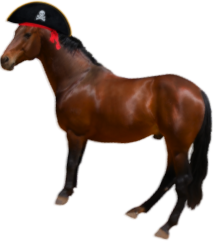
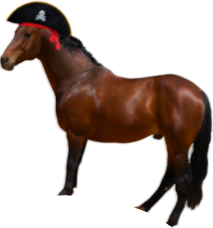
juan.

Changed region(s): [[0.0, 0.0307, 1.0, 1.0], [0.0845, 0.0, 0.1408, 0.0307], [0.2254, 0.0, 0.2535, 0.0307]]

diff --git a/css/tiburon.css b/css/tiburon.css
@@ -41,9 +41,9 @@
 
 #juan {
     z-index: 9;
-    top: 465px;
+    top: 466px;
     left: 920px;
-    clip-path: polygon(26% 85%, 39% 85%, 51% 88%, 60% 90%, 69% 96%, 75% 99%, 83% 96%, 89% 90%, 96% 87%, 99% 80%, 100% 66%, 100% 36%, 93% 32%, 82% 28%, 73% 29%, 62% 30%, 55% 28%, 49% 25%, 43% 19%, 38% 15%, 33% 9%, 30% 2%, 24% 0%, 6% 0%, 1% 4%, 2% 10%, 4% 12%, 3% 15%, 0% 20%, 0% 29%, 1% 31%, 7% 29%, 12% 27%, 17% 27%, 20% 31%, 22% 37%, 24% 45%, 26% 53%, 28% 60%, 29% 68%, 27% 75%);
+    clip-path: polygon(26% 85%, 33% 85%, 45% 86%, 56% 88%, 64% 91%, 73% 95%, 80% 100%, 88% 92%, 94% 91%, 99% 71%, 100% 42%, 94% 37%, 81% 30%, 64% 32%, 56% 32%, 36% 14%, 30% 4%, 16% 0%, 9% 0%, 2% 7%, 4% 13%, 0% 23%, 0% 32%, 6% 32%, 17% 27%, 24% 43%, 25% 56%, 30% 60%, 25% 85%);
     pointer-events: all;
 }
 
